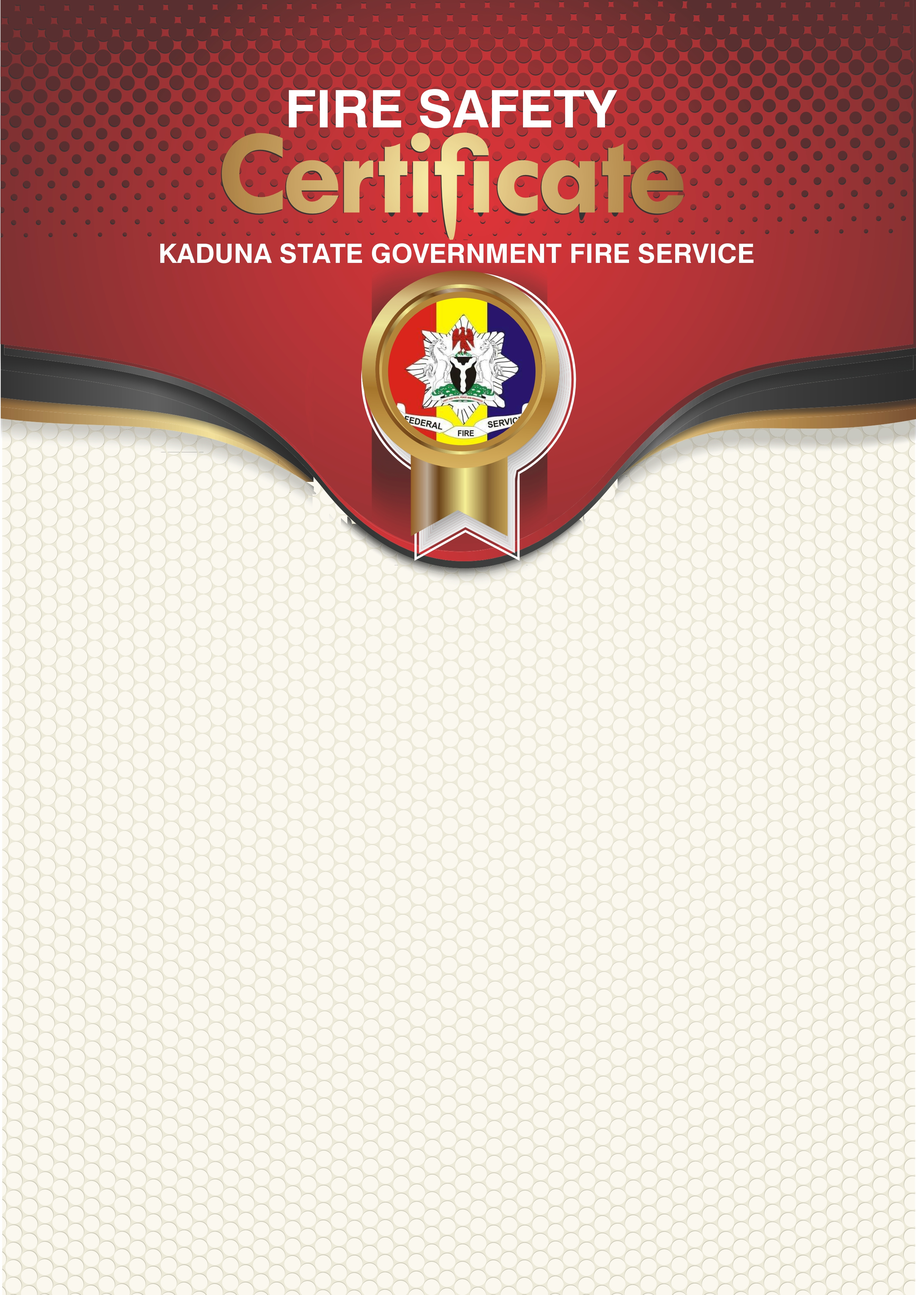
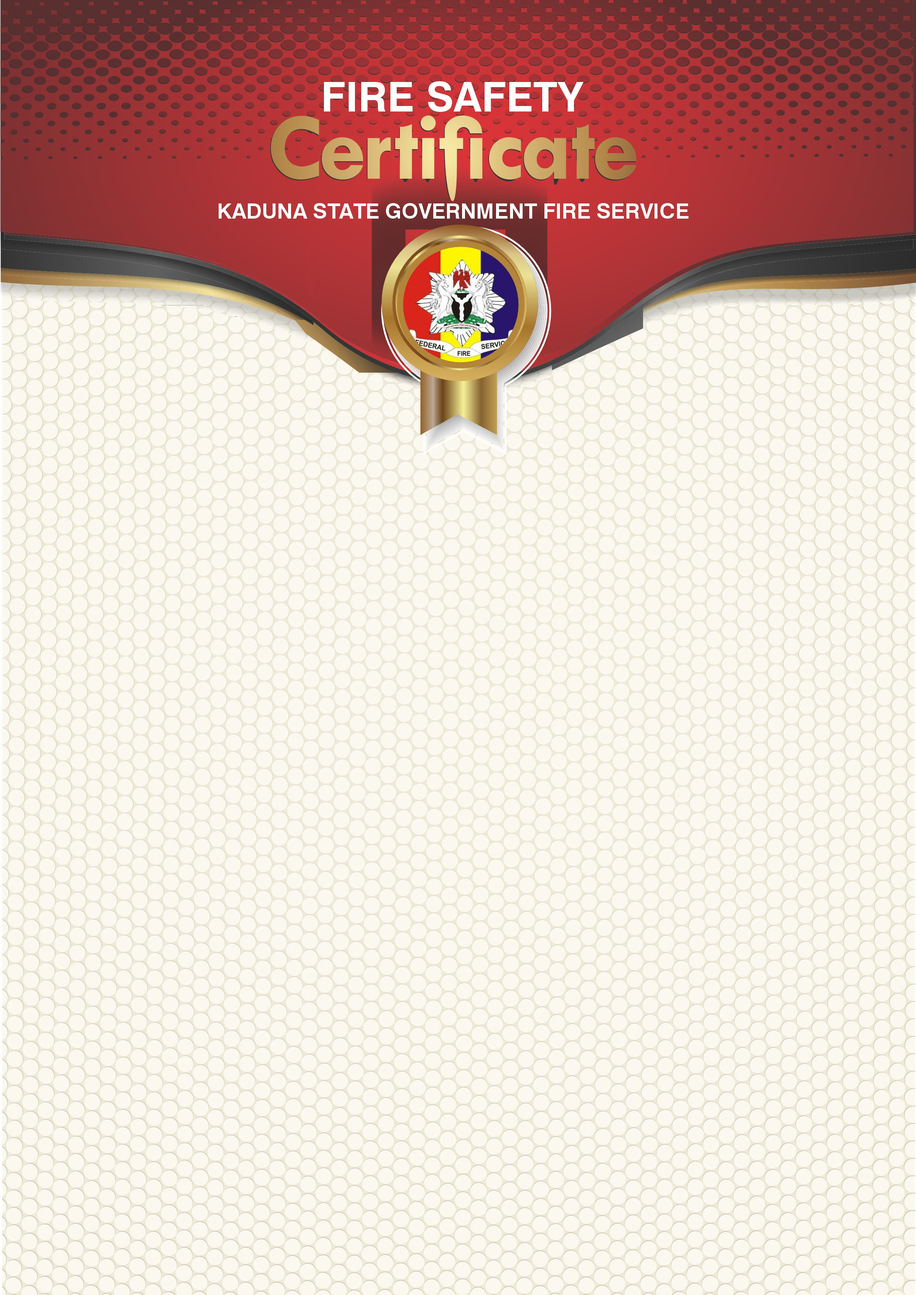
Add files via upload

Changed region(s): [[0.0, 0.0, 1.0, 0.4662]]

diff --git a/Kaduna Project/index.html b/Kaduna Project/index.html
@@ -19,47 +19,47 @@
                 </ul>
             </div>
             </nav>
-            <img src="./Assets/images/qr-code (3).png" width="200px">
+            <img src="./Assets/images/qr-code (3).png" width="150px">
     </section>
 
        
 
-            
-     
-<div>
-    <p class="heado">This certify that the premises comprised in the property occupied by</p>
-_____________________________________________________________________________________________________________________________________________________________________________ <br>
-
-<p>For the purpose of _____________________________________________________ have satisfied all Safety Standards as enumerated below and hence well recommended to operate. <br>
-1. No. of Service pumps __________ 2. Condition of pumps __________ 3. No. of Fire Extinguishers______________ 4. Thunder Arrestor ___________ 5. Earth Wire ___________ 6. No. of Buckets _________Sand______________
-Water ______________ Surroundings ______________ 7. No. and Condition of Vent pipe _______________________
-8. No. of Trained Safety Staff _______________ <br>
-<br>
-Dated:________________ Days of_______________ 20 _______________
-This certificate will expire on____________________ 20 ______ <br>
-<br>
-
-
-</div>
-<div class="row justify-content-md-start">
-    <div class="col-md-9">
-<p>Note:- <br>
-Owners and Occupiers are reminded that if after the grant of this certificate:- <br>
-1. If there are extensions or structural alterations of the premises, or <br>
-2. Increase in the number of Persons employed to work there at any time above the <br>
-approved one, notify the authority. <br>
-3. This Certificate is subject to revocation, if any safety condition earlier Certified is later compromised.</p><br>
-
-<p>_________________________________ <br>
-<b>Director, Kaduna State Fire Services.</b></p>
-</div>
-
-
-
-
-  
-
+<section>
+    <div class="justify-content-center">
+        <p class="heado">This certify that the premises comprised in the property occupied by</p>
+    _____________________________________________________________________________________________________________________________________________________________________________ <br>
+    
+    <p>For the purpose of _____________________________________________________ have satisfied all Safety Standards as enumerated below and hence well recommended to operate. <br>
+    1. No. of Service pumps __________ 2. Condition of pumps __________ 3. No. of Fire Extinguishers______________ 4. Thunder Arrestor ___________ 5. Earth Wire ___________ 6. No. of Buckets _________Sand______________
+    Water ______________ Surroundings ______________ 7. No. and Condition of Vent pipe _______________________
+    8. No. of Trained Safety Staff _______________ <br>
+    <br>
+    Dated:________________ Days of_______________ 20 _______________
+    This certificate will expire on____________________ 20 ______ <br>
+    <br>
+    
+    
+    </div>
+    <div class="row justify-content-md-start">
+        <div class="col-md-9">
+    <p>Note:- <br>
+    Owners and Occupiers are reminded that if after the grant of this certificate:- <br>
+    1. If there are extensions or structural alterations of the premises, or <br>
+    2. Increase in the number of Persons employed to work there at any time above the <br>
+    approved one, notify the authority. <br>
+    3. This Certificate is subject to revocation, if any safety condition earlier Certified is later compromised.</p><br>
+    
+    <p>_________________________________ <br>
+    <b>Director, Kaduna State Fire Services.</b></p>
+    </div>
+    
+    
+    
+    
+      
 </section>
+
+
         
 
 

diff --git a/Kaduna Project/Assets/css/index.css b/Kaduna Project/Assets/css/index.css
@@ -4,13 +4,13 @@
 }
 
 .header {
-   margin-top: 45%;
+   margin-top: 35%;
     
     
 }
 body{
     margin-left: 25px;
-    margin-right: 25px;
+    margin-right: 45px;
     background-image:url(/Assets/images/CERTIFICATE\ plain.jpg);
     background-repeat: no-repeat;
     background-size: cover;
